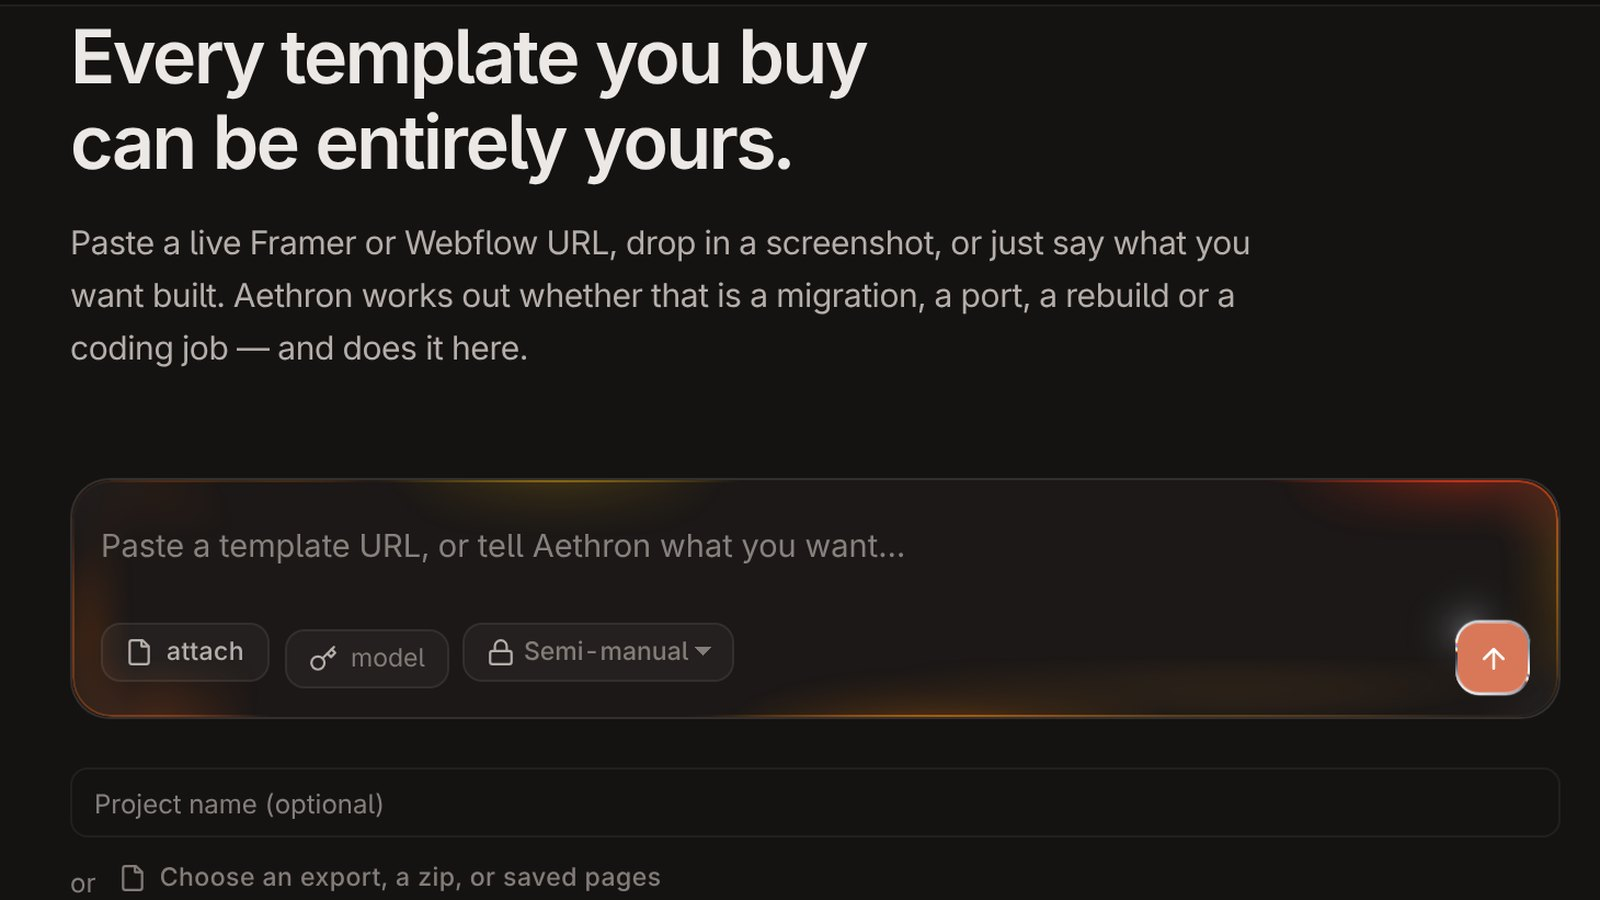
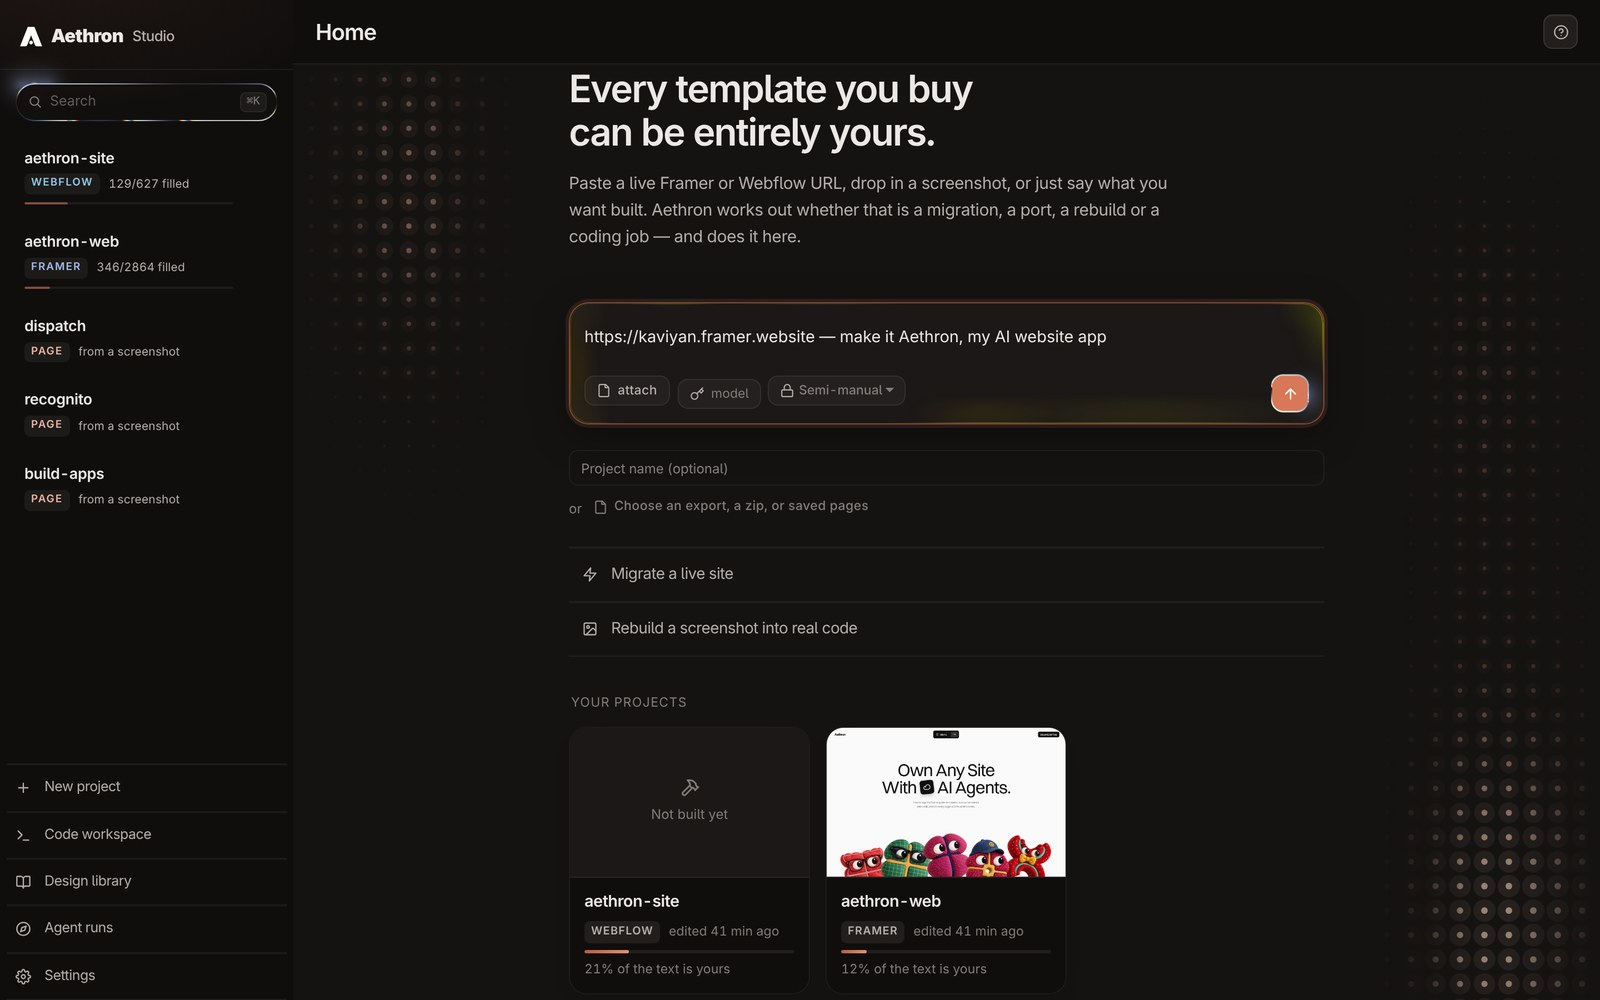
Website: full-window app shots, timeline back, links that work after load, Render
- Bring, Check and Ship show the whole Aethron window, not close crops.
- The template's timeline section is back, as a migration minute by minute.
- forge link_routes: Framer re-renders page links from its route table after
  hydration, so every nav, footer and Download link opened the template's
  own pages. A click listener ahead of the router sends them to Aethron's
  sections and to the download.
- post_build.py (was netlify_post.py) writes a /download page that works on
  any host; render.website.yaml is a free Render static-site Blueprint.

Claude-Session: https://claude.ai/code/session_01Tw24LKnJbvNt3GDwrhVs1a

diff --git a/forge.py b/forge.py
@@ -2712,6 +2712,7 @@ def cmd_build(_args):
         t = _apply(t, pairs, escaped=True, stats=stats)
         t = _localize_refs(t, cfg.get("localized", {}))
         t = _inject_runtime_map(t, cfg, pairs)
+        t = _inject_link_routes(t, cfg)
         t, n_regen = _regen_split_runs(t, pairs, stats=stats)
         if held:
             t = re.sub(r"\x00W(\d+)\x00", lambda m: held[int(m.group(1))], t)
@@ -3788,6 +3789,42 @@ def _inject_runtime_map(t: str, cfg: dict, pairs) -> str:
         return t
     tag = ('<script data-aethron-runtime-map>' + RUNTIME_MAP_JS
            % json.dumps(rmap).replace("</", "<\\/") + "</script>")
+    m = re.search(r"<head\b[^>]*>", t, re.I)
+    return (t[:m.end()] + tag + t[m.end():]) if m else tag + t
+
+
+LINK_ROUTES_JS = r"""(function(R){function k(h){return(h||'').replace(/^\.?\/+/,'')
+.replace(/\/$/,'')}function t(a){var h=a.getAttribute('data-ae-route')||a.getAttribute('href');
+if(h==null)return;var x=k(h);if(R[x]!=null){a.setAttribute('data-ae-route',x);
+return R[x]}var p=x.split('#')[0];if(p!==x&&R[p]!=null)
+return R[p]}function go(e){var a=e.target&&e.target.closest&&e.target.closest('a[href]');
+if(!a)return;var d=t(a);if(d==null)return;if(e.type!=='click'){a.setAttribute('href',d);
+return}if(e.metaKey||e.ctrlKey||e.shiftKey||e.button)return;e.preventDefault();
+e.stopImmediatePropagation();if(d.charAt(0)==='#'){var el=document.getElementById(
+d.slice(1));if(el){el.scrollIntoView({behavior:'smooth'});history.replaceState(null,
+'',d)}return}location.href=d}document.addEventListener('click',go,true);
+document.addEventListener('mouseover',go,true);document.addEventListener('focusin',
+go,true)})(%s);"""
+
+
+def _inject_link_routes(t: str, cfg: dict) -> str:
+    """cfg["link_routes"]: where a template's own page links really go.
+
+    Framer re-renders every page link from its route table after
+    hydration, so a link entry only changes the server HTML: once the page
+    is live, "Get the app" is ./contact again and Framer's router opens the
+    template's own contact page client-side (seen on the Aethron site, cut
+    to one page: every nav and footer link opened a Kaviyan page). A click
+    listener that runs before the router sends each route where it
+    belongs: "#id" scrolls to that section, anything else navigates.
+    Keys are route paths without "./" ("services", "about#careers")."""
+    routes = cfg.get("link_routes") or {}
+    if not routes:
+        return t
+    clean = {str(k).strip().lstrip("./").rstrip("/"): str(v)
+             for k, v in routes.items()}
+    tag = ('<script data-aethron-link-routes>' + LINK_ROUTES_JS
+           % json.dumps(clean).replace("</", "<\\/") + "</script>")
     m = re.search(r"<head\b[^>]*>", t, re.I)
     return (t[:m.end()] + tag + t[m.end():]) if m else tag + t
 

diff --git a/projects/aethron-web/post_build.py b/projects/aethron-web/post_build.py
@@ -1,0 +1,53 @@
+"""Runs after `forge.py build`, on any host (Render, Netlify, or your own).
+
+The site is static: no backend is needed. This script only does two things
+a plain file host cannot do by itself:
+
+  * /download -> the newest Mac release, read from the app's own update feed
+    at build time, so the button never points at an old build. Written as a
+    small page (site/download/index.html) that forwards to the zip, which
+    works on every host, and as a 302 in site/_redirects for Netlify.
+  * the template's /legal/... routes -> the legal pages (Framer's router
+    navigates to those paths, so a reload there must still find the page).
+    Netlify reads them from site/_redirects; Render from render.website.yaml.
+"""
+import html, json, pathlib, urllib.request
+
+FEED = "https://bnmiretrggdnoaskasxj.supabase.co/storage/v1/object/public/releases/mac.json"
+FALLBACK = ("https://bnmiretrggdnoaskasxj.supabase.co/storage/v1/object/public/"
+            "releases/Aethron-1.1.39-mac.zip")
+
+try:
+    with urllib.request.urlopen(FEED, timeout=20) as r:
+        feed = json.load(r)
+    url, ver = feed["url"], feed.get("version", "?")
+except Exception as e:  # a feed outage must not take the website down
+    print("feed unreadable, using the pinned build:", e)
+    url, ver = FALLBACK, "pinned"
+
+site = pathlib.Path("site")
+u = html.escape(url, quote=True)
+page = f"""<!doctype html><html lang="en"><head><meta charset="utf-8">
+<meta name="viewport" content="width=device-width,initial-scale=1">
+<title>Downloading Aethron</title><meta name="robots" content="noindex">
+<meta http-equiv="refresh" content="0; url={u}">
+<style>body{{font:16px/1.5 -apple-system,system-ui,sans-serif;background:#fafafa;color:#111;
+display:grid;place-items:center;min-height:100vh;margin:0;text-align:center}}
+a{{color:#111}}</style></head><body><main><h1>Your download is starting</h1>
+<p>Aethron {html.escape(str(ver))} for Mac. If nothing happens, <a href="{u}">download it here</a>.</p>
+<p><a href="/">Back to the site</a></p></main>
+<script>location.replace({json.dumps(url)})</script></body></html>
+"""
+for d in ("download", "download/mac"):
+    (site / d).mkdir(parents=True, exist_ok=True)
+    (site / d / "index.html").write_text(page)
+
+(site / "_redirects").write_text(f"""/download {url} 302
+/download/mac {url} 302
+/assets/downloads/Aethron-mac.zip {url} 302
+/legal/assets/* /assets/:splat 200
+/legal/privacy-policy /legal-privacy-policy.html 200
+/legal/terms-of-service /legal-terms-of-service.html 200
+/* /index.html 200
+""")
+print(f"/download -> {url} ({ver})")

diff --git a/docs/WEBSITE_MIGRATION.md b/docs/WEBSITE_MIGRATION.md
@@ -149,7 +149,7 @@ the product with screenshots of Aethron itself:
 
 | where on the page | template picture | now |
 |---|---|---|
-| the four steps (Bring, Edit, Check, Ship) | video-editing stills | `app-bring.jpg` (the home composer), `app-edit.jpg` (point and edit on a rebuilt page), `app-check.jpg` (a rebuilt page at phone width), `app-ship.jpg` (the project rail) |
+| the four steps (Bring, Edit, Check, Ship) | video-editing stills | `app-bring.jpg` (the whole Home window with a template link typed in), `app-edit.jpg` (point and edit on a rebuilt page), `app-check.jpg` (the whole window, previewing a rebuilt page at phone width), `app-ship.jpg` (the whole project window, rail included) |
 | the three create modes | footage thumbnails | `shot-in.jpg` (a screenshot going in), `page-dispatch.jpg` and `page-apps.jpg` (pages Aethron built) |
 | pricing avatar | a stock face | `aethron-icon.jpg` (the app icon) |
 | hero chip icon | the template's glyph | the Aethron mark |
@@ -167,9 +167,11 @@ How the screenshots were made, so they show a clean app:
 3. Drive it with Playwright at 1600px wide, click the real controls (the
    preview's desktop/phone switch is sticky between captures, so set it
    every time), screenshot.
-4. Crop each shot to the SAME aspect ratio as the template picture it
-   replaces. The template's frames are sized to their picture; a different
-   aspect is cropped by `object-fit` in ways nobody chose.
+4. Measure the frame the picture sits in (here 413x258, 1.6:1) and shoot
+   the WHOLE app window at that ratio (1440x900 is 1.6:1), then scale it to
+   1600x1000. temple's verdict on the first try: close crops of one panel
+   "look like a zoomed screenshot"; the whole window, small, reads as the
+   product. Only crop when the crop is the point (the Edit step).
 
 How they were swapped: an image entry's `new` set to `/assets/<file>`. The
 entry is the picture's base address, so every `?width=` variant follows.
@@ -185,6 +187,38 @@ and Aethron has no separate agent artwork.
 
 Checked after: verify CLEAN, probe CLEAN on all 3 pages, every image loads.
 
+## 6c. The timeline section, put back
+
+The first pass hid the template's Process section (the six-week Gantt
+chart). temple wanted it back. It now shows a migration minute by minute:
+the phase names were kept (Discover, Design, Build, Handover fit Aethron as
+they are), the descriptions, durations (`1 week` -> `1 min`), column labels
+(`W1` -> `1m`) and the footnote were filled, and both hide rules for it
+(`section#process` and its phone variant) were removed. The playhead
+animation is the template's own.
+
+## 6d. Page links after hydration (the bug link entries cannot fix)
+
+Link entries changed the server HTML, and the site looked right. But Framer
+re-renders every page link from its route table once the page is live: after
+hydration "Download free" was `./contact` again, "Agents" was `./services`,
+and a click opened the TEMPLATE's own pages client-side (its chunks still
+hold them). Nobody saw it, because every check read the page before anyone
+clicked.
+
+The fix is a forge option, `link_routes` in `forge.json`:
+
+```json
+"link_routes": {"services": "#product", "pricing": "#pricing",
+                "contact": "/download/", "blog": "mailto:hello@jomiez.com"}
+```
+
+Build injects a click listener that runs before Framer's router: `#id`
+scrolls to that section, anything else navigates. Checked by clicking every
+nav, menu and footer link in a browser after the page has loaded.
+
+Rule: test links by CLICKING them after hydration, not by reading hrefs.
+
 ## 7. The legal pages
 
 The template's privacy policy and terms describe a video SaaS. They were
@@ -197,16 +231,21 @@ migrate, Jomiez owns the app. Contact: hello@jomiez.com.
 
 ## 8. Hosting and the Download button
 
+The site is static. No backend is needed: forge writes plain files and
+`post_build.py` runs once at build time. It works on Render (temple's
+choice), Netlify or any file host.
+
 `netlify.toml` builds the project on Netlify from source:
 
 ```
 base    = projects/aethron-web
-command = python3 ../../forge.py build && python3 netlify_post.py
+command = python3 ../../forge.py build && python3 post_build.py
 publish = site
 ```
 
-`netlify_post.py` reads the app's update feed (`releases/mac.json` on
-Supabase) and writes `site/_redirects`:
+`post_build.py` reads the app's update feed (`releases/mac.json` on
+Supabase) and writes `site/download/index.html` (a page that forwards to the
+newest zip, works on any host) and `site/_redirects` (Netlify):
 
 - `/download` (and the old site's `/assets/downloads/Aethron-mac.zip`) ->
   302 to the newest Mac zip, so the button always gives the current release
@@ -217,6 +256,11 @@ Supabase) and writes `site/_redirects`:
   paths when a legal link is clicked; a reload there must still find the page
   and its scripts (they are referenced relative to the page).
 - everything else -> the home page.
+
+Render: `render.website.yaml` is a Blueprint for a free static site with
+the same rules (Render applies a rule only where no file exists, so the
+`/* -> /index.html` fallback never hides a real file). New -> Blueprint ->
+this repo -> Blueprint path `render.website.yaml`.
 
 ## 9. Checks run
 

diff --git a/AETHRON.md b/AETHRON.md
@@ -6299,6 +6299,22 @@ Unlimited); show how long a run has been going; and check why a run took
 tests/limits_battery.py 34/34 (in run_all; part E is a real studio in a
 browser). Related batteries re-run green.
 
+## A FRAMER LINK ENTRY ONLY CHANGES THE SERVER HTML — `link_routes` — 2026-10-21
+Migrating the Kaviyan template into Aethron's one-page site: every nav,
+menu, footer and Download link read right in the built HTML, and after
+hydration all of them were the template's routes again (./contact,
+./services…), so a click opened the TEMPLATE's own pages client-side from
+its chunks. Framer renders page links from its route table, not from the
+href. New forge.json option `link_routes` {"services": "#product",
+"contact": "/download/"}: build injects a capture-phase click listener that
+runs before the router ("#id" scrolls, anything else navigates; the original
+route is kept in data-ae-route so a hover that rewrites the href does not
+lose it). Proven by clicking every link after load. Full write-up:
+docs/WEBSITE_MIGRATION.md. The site is static and hosts anywhere:
+projects/aethron-web/post_build.py writes /download/index.html (forwards to
+the newest zip) and Netlify _redirects; render.website.yaml is a free Render
+static-site Blueprint.
+
 ## Invariants (do not break)
 - `pristine/` is never modified; `site/` is never hand-edited; every
   change flows through `copy_map.json` + `build`.
@@ -6554,6 +6570,8 @@ browser). Related batteries re-run green.
 - A GUARD THAT SAYS NO SAYS IT ONCE AND OUT LOUD. Never refuse with a status
   the engine retries; a run's limits reset with the person's next message.
 - THE COST SHOWN IS THE PROVIDER'S PRICE. Never the engine's own estimate.
+- A LINK IS TESTED BY CLICKING IT AFTER THE PAGE HAS LOADED. Reading the
+  built href proves nothing on a runtime that re-renders links.
 - A LIMIT THE PERSON SETS IS THEIRS. 0 means Unlimited, and Unlimited is
   honoured everywhere; only the provider's own credit cannot be overridden,
   and its refusal is shown in its own words.
